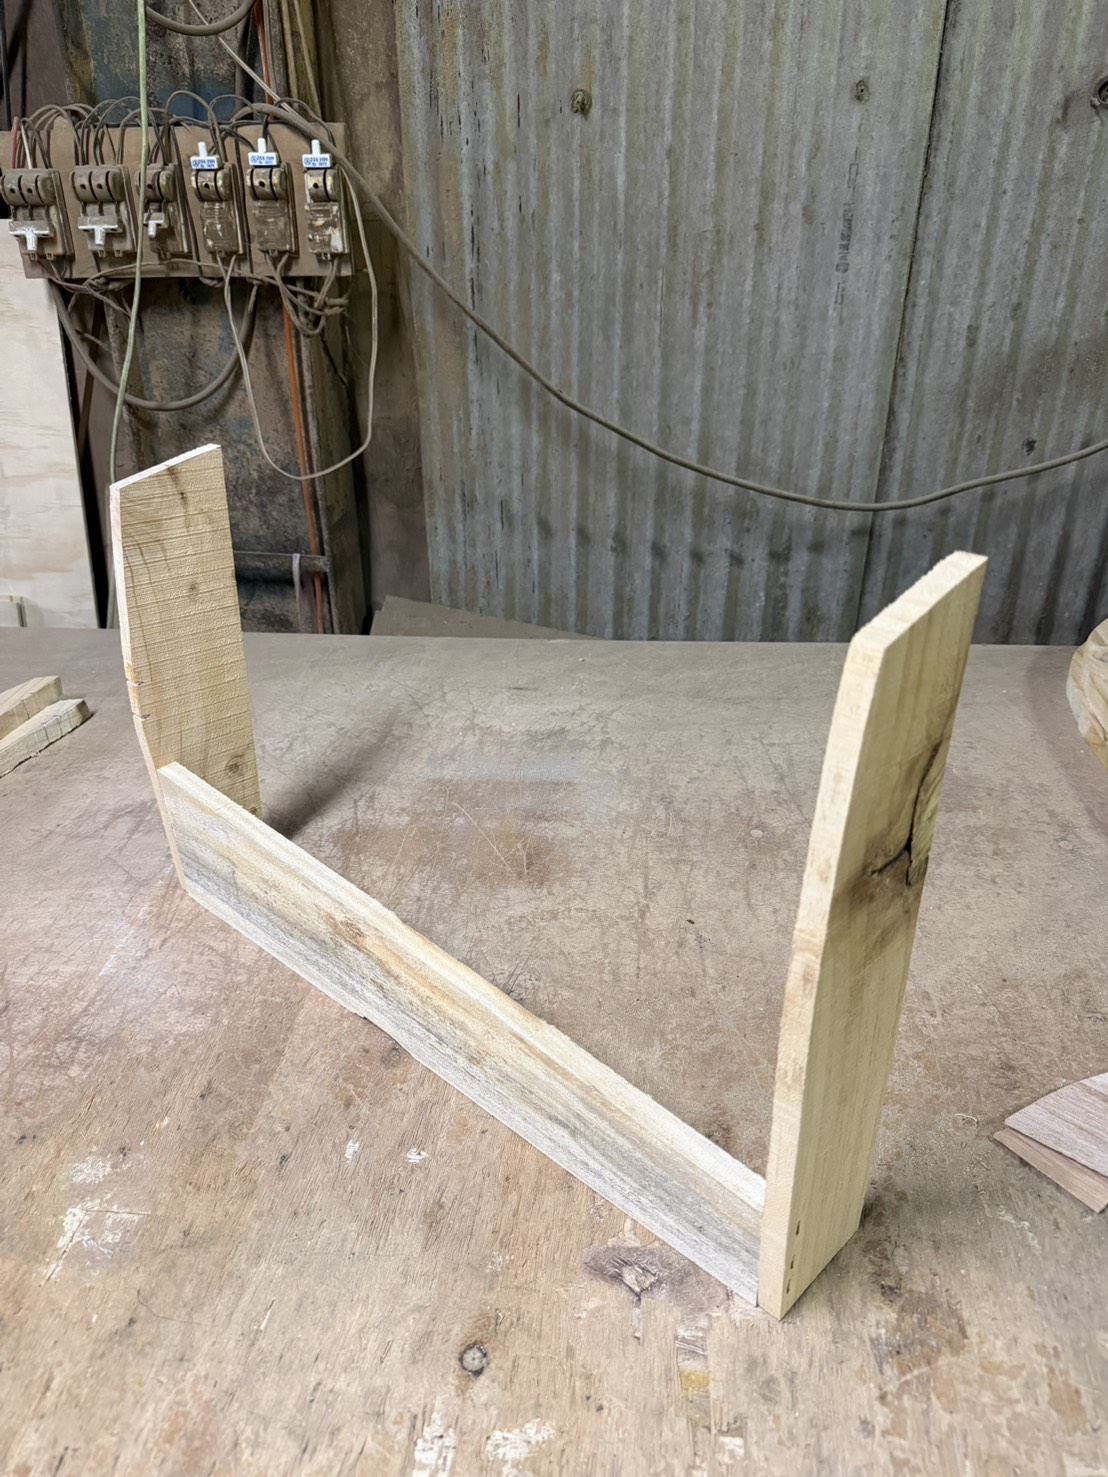
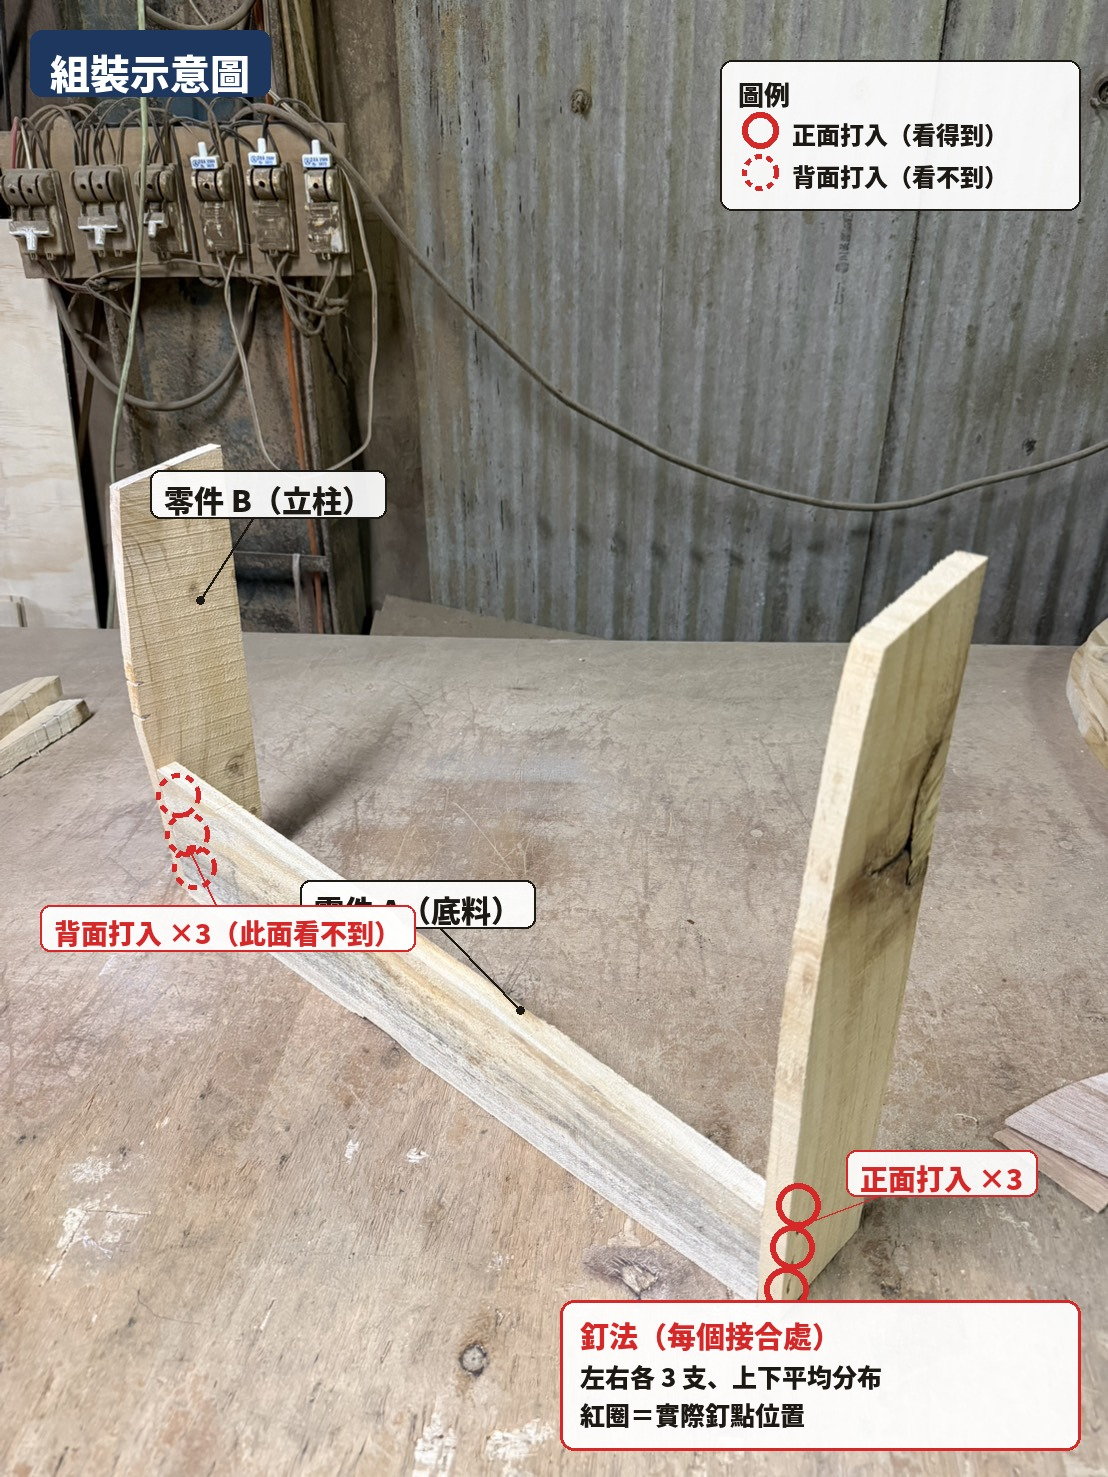
Add photo zoom/reset controls to the step reader
Buttons in the top-right of the media box let you zoom in (100% ->
150% -> 200% -> 250%), zoom out, or reset back to fit. Zooming makes
the box scrollable/pannable instead of clipping the enlarged photo,
and resets automatically whenever the step changes so zoom never
carries over to the next photo. Mobile swipe-to-navigate is disabled
while zoomed in so panning the photo doesn't accidentally trigger a
step change.

Also includes A-01/2.jpg, which now has the staple points and part
labels marked directly on the photo.

diff --git a/js/sop.js b/js/sop.js
@@ -109,6 +109,37 @@ function startAssembly() {
   render();
 }
 
+/* ---------- 照片放大/縮小 ---------- */
+const ZOOM_STEPS = [1, 1.5, 2, 2.5];
+let zoom = 1;
+
+function applyZoom() {
+  const media = document.querySelector(".media");
+  const target = document.querySelector("#rMedia > img, #rMedia > svg");
+  if (!media) return;
+
+  media.classList.toggle("zoomed", zoom > 1);
+  if (target) target.style.transform = zoom > 1 ? `scale(${zoom})` : "";
+
+  $("#zoomReset").textContent = Math.round(zoom * 100) + "%";
+  $("#zoomOut").disabled = zoom <= ZOOM_STEPS[0];
+  $("#zoomIn").disabled = zoom >= ZOOM_STEPS[ZOOM_STEPS.length - 1];
+}
+function zoomIn() {
+  const i = ZOOM_STEPS.indexOf(zoom);
+  zoom = ZOOM_STEPS[Math.min(ZOOM_STEPS.length - 1, i + 1)];
+  applyZoom();
+}
+function zoomOut() {
+  const i = ZOOM_STEPS.indexOf(zoom);
+  zoom = ZOOM_STEPS[Math.max(0, i - 1)];
+  applyZoom();
+}
+function resetZoom() {
+  zoom = 1;
+  applyZoom();
+}
+
 /* ---------- 步驟閱讀器 ---------- */
 function render(dir) {
   const m = MODELS[mi],
@@ -123,6 +154,7 @@ function render(dir) {
   const rMedia = $("#rMedia");
   $("#rDemo").style.display = s.img ? "none" : "";
   rMedia.innerHTML = s.img ? `<img src="${s.img}" alt="${s.name}">` : s.art;
+  resetZoom(); // 換步驟一律回到剛好放進框裡的大小，不沿用上一張的放大倍率
 
   const info = $("#rInfo");
   info.innerHTML = `<div><div class="stepno">第 ${si + 1} 步</div><div class="stepname">${s.name}</div></div>
@@ -194,6 +226,9 @@ export function init() {
   $("#rNext").addEventListener("click", () => step(1));
   $("#locClose").addEventListener("click", closeLocate);
   $("#locBackdrop").addEventListener("click", closeLocate);
+  $("#zoomIn").addEventListener("click", zoomIn);
+  $("#zoomOut").addEventListener("click", zoomOut);
+  $("#zoomReset").addEventListener("click", resetZoom);
 
   $("#q").addEventListener("input", (e) => renderGrid(e.target.value));
 
@@ -211,7 +246,7 @@ export function init() {
     ty = e.changedTouches[0].clientY;
   }, { passive: true });
   document.addEventListener("touchend", (e) => {
-    if (mode !== "reader") return;
+    if (mode !== "reader" || zoom > 1) return; // 放大時滑動是在移動照片查看細節，不要誤觸發換步驟
     const dx = e.changedTouches[0].clientX - tx,
       dy = e.changedTouches[0].clientY - ty;
     if (Math.abs(dx) > 55 && Math.abs(dx) > Math.abs(dy) * 1.4) step(dx < 0 ? 1 : -1);

diff --git a/css/style.css b/css/style.css
@@ -163,8 +163,25 @@ body {
   background-image: linear-gradient(#00000006 1px, transparent 1px), linear-gradient(90deg, #00000006 1px, transparent 1px); background-size: 26px 26px;
 }
 .media .inner { width: 100%; height: 100%; display: flex; align-items: center; justify-content: center; padding: 18px; min-width: 0; min-height: 0; }
-.media img, .media svg { max-width: 100%; max-height: 100%; display: block; }
+.media img, .media svg { max-width: 100%; max-height: 100%; display: block; transition: transform .15s ease; transform-origin: 0 0; }
 .media .demo { position: absolute; top: 12px; left: 12px; font-family: var(--mono); font-size: 11px; letter-spacing: 1px; color: var(--muted); background: #fff; border: 1px solid var(--line); padding: 4px 9px; border-radius: 7px; }
+
+/* 放大/縮小/還原：放大後 .inner 改可以捲動查看，不是整張圖硬擠進框裡 */
+.zoom-ctrl {
+  position: absolute; top: 12px; right: 12px; z-index: 2; display: flex; gap: 4px;
+  background: rgba(255, 255, 255, .92); border: 1px solid var(--line); border-radius: 10px; padding: 4px; box-shadow: var(--sh);
+}
+.zoom-ctrl button {
+  width: 30px; height: 30px; border: 0; background: transparent; border-radius: 7px; font-family: var(--mono);
+  font-weight: 800; font-size: 15px; color: var(--ink); cursor: pointer;
+}
+.zoom-ctrl button:disabled { opacity: .35; cursor: default; }
+@media (hover: hover) { .zoom-ctrl button:not(:disabled):hover { background: var(--amber-soft); } }
+.zoom-ctrl button:not(:disabled):active { transform: scale(.92); }
+#zoomReset { font-size: 11px; width: auto; padding: 0 8px; }
+
+.media.zoomed .inner { overflow: auto; align-items: flex-start; justify-content: flex-start; cursor: grab; }
+.media.zoomed .inner:active { cursor: grabbing; }
 .info { display: flex; flex-direction: column; gap: 14px; min-height: 0; min-width: 0; overflow-y: auto; padding-bottom: 4px; }
 .stepno { font-family: var(--mono); font-size: 13px; font-weight: 700; color: var(--amber-deep); letter-spacing: 1px; }
 .stepname { font-size: 26px; font-weight: 800; line-height: 1.2; margin-top: -4px; }

diff --git a/index.html b/index.html
@@ -73,7 +73,15 @@
         </div>
         <div class="ruler"><span class="cnt" id="rCnt"></span><div class="track"><div class="fill" id="rFill"></div></div></div>
         <div class="rbody">
-          <div class="media"><span class="demo" id="rDemo">示意圖</span><div class="inner" id="rMedia"></div></div>
+          <div class="media">
+            <span class="demo" id="rDemo">示意圖</span>
+            <div class="zoom-ctrl">
+              <button type="button" id="zoomOut" aria-label="縮小">−</button>
+              <button type="button" id="zoomReset" aria-label="還原大小">100%</button>
+              <button type="button" id="zoomIn" aria-label="放大">＋</button>
+            </div>
+            <div class="inner" id="rMedia"></div>
+          </div>
           <div class="info" id="rInfo"></div>
         </div>
         <div class="rfoot">